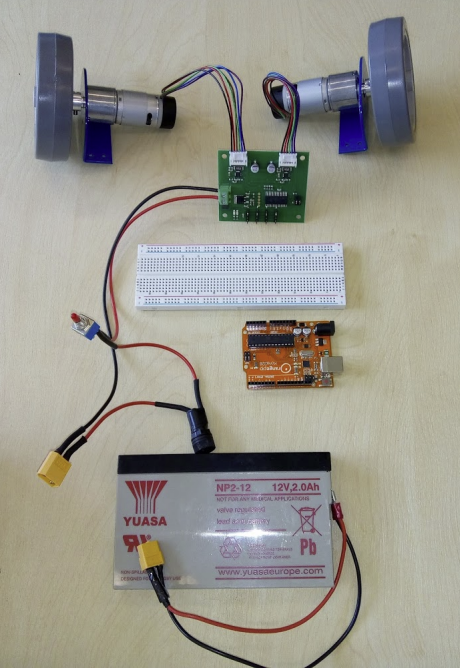
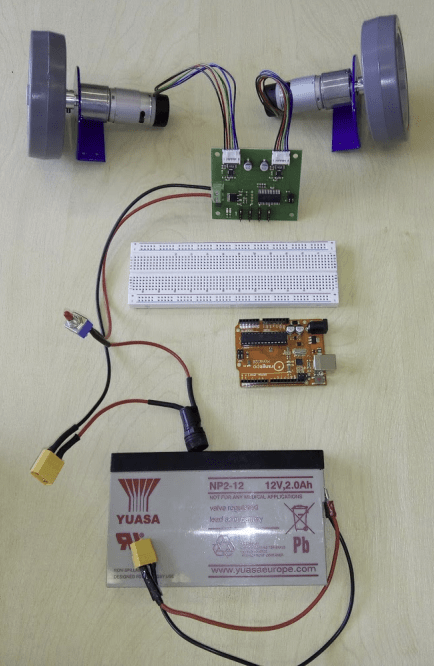
robot diagrams width

diff --git a/src/pages/Robot.jsx b/src/pages/Robot.jsx
@@ -36,7 +36,7 @@ function Robot() {
           The components used and a wiring diagram are shown below.
         </h6>
         <br/>
-        <img src={require("../RobotComponents/electrical circuit.PNG")} alt="Electrical Circuit" width="80%"/>
+        <img src={require("../RobotComponents/electrical circuit.PNG")} alt="Electrical Circuit" width="90%"/>
         <br/>
         <img src={require("../RobotComponents/wiring diagram.png")} alt="Electrical Circuit Diagram" width="80%" />
         <br/>
